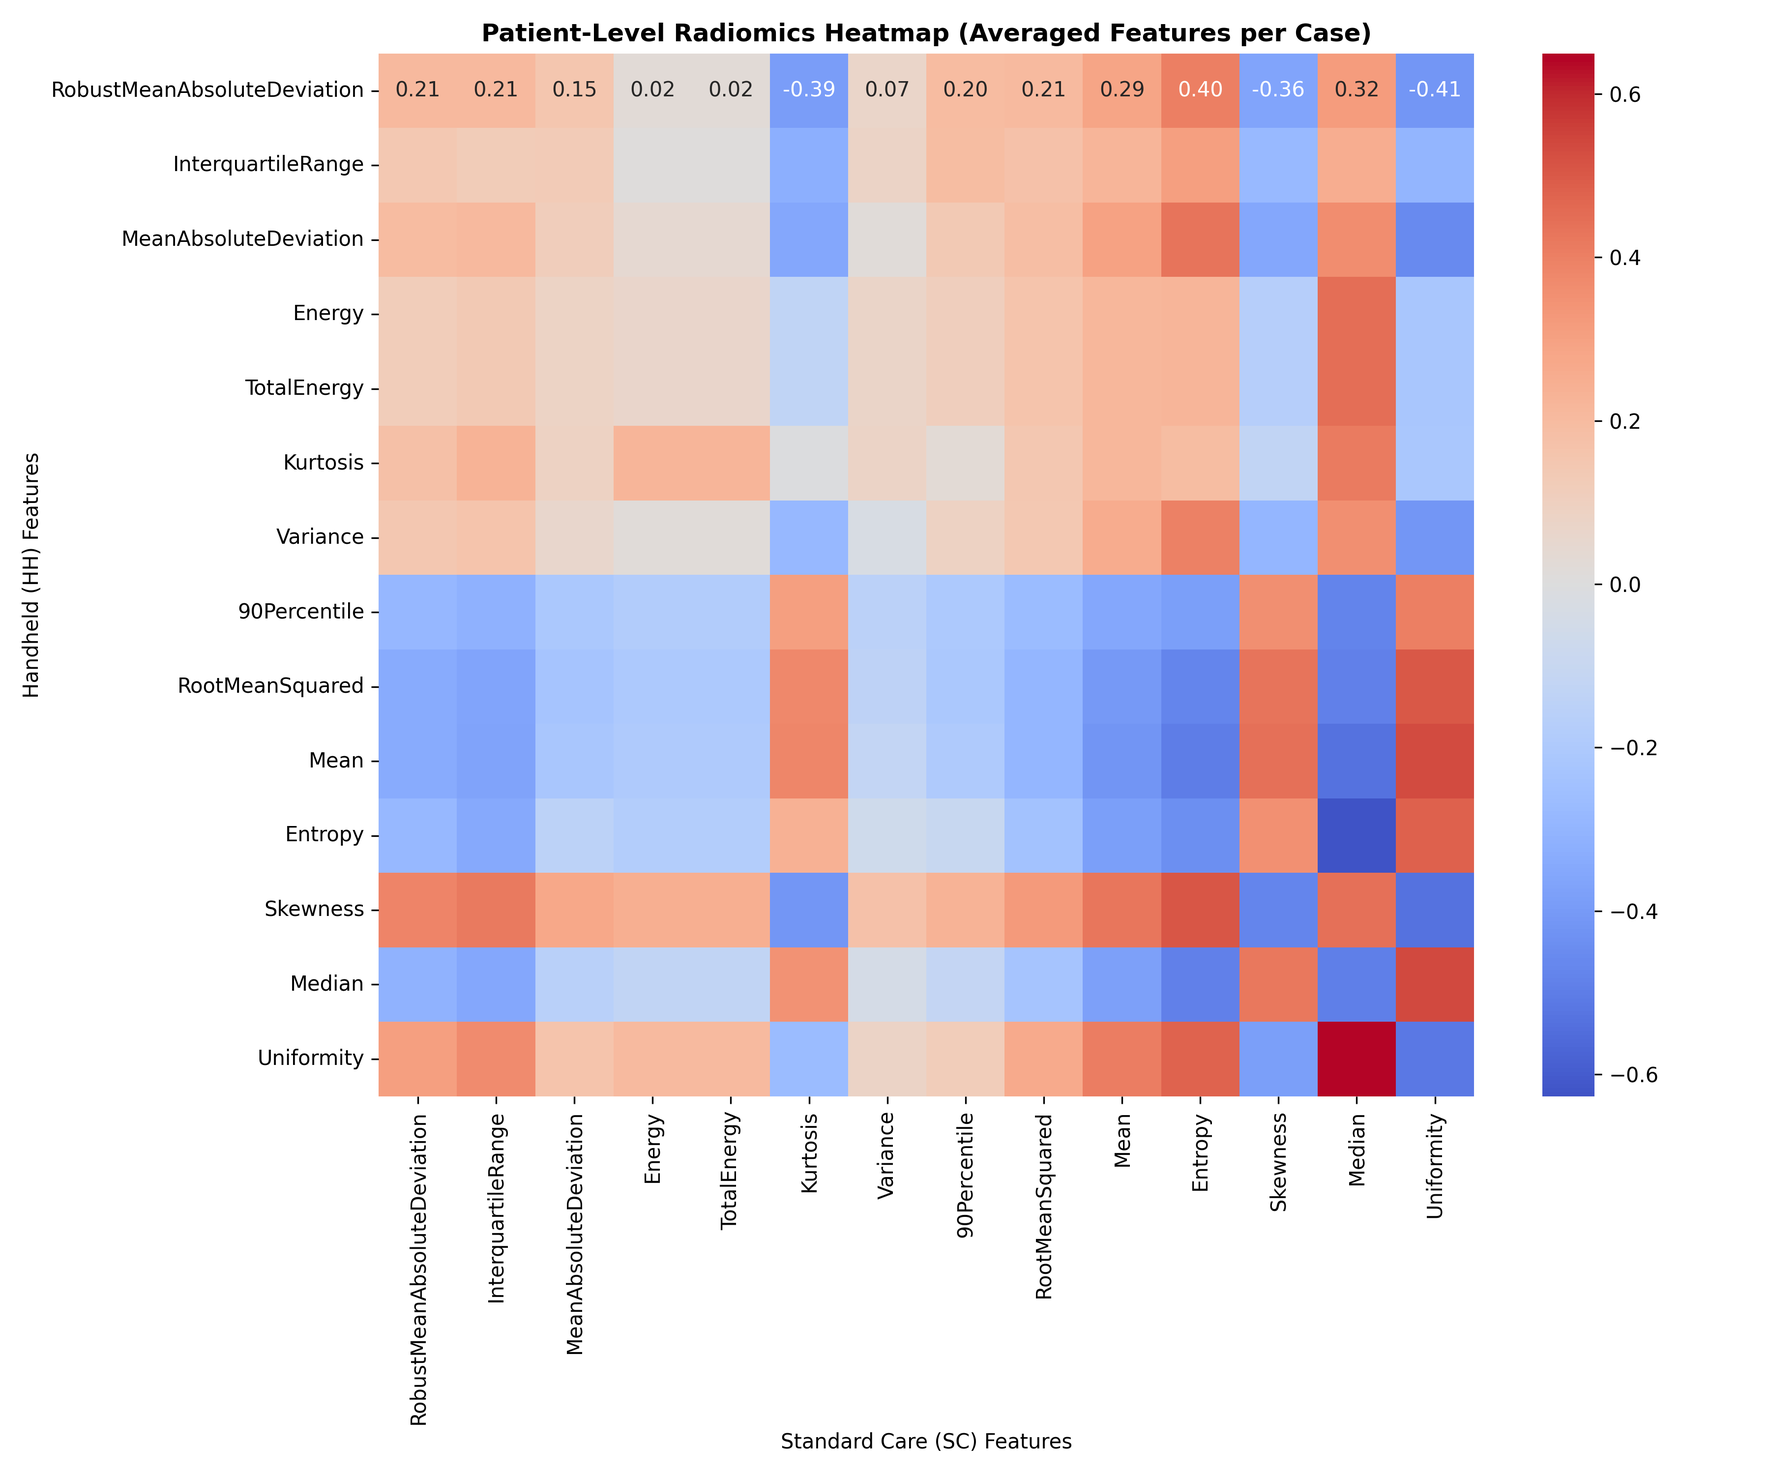
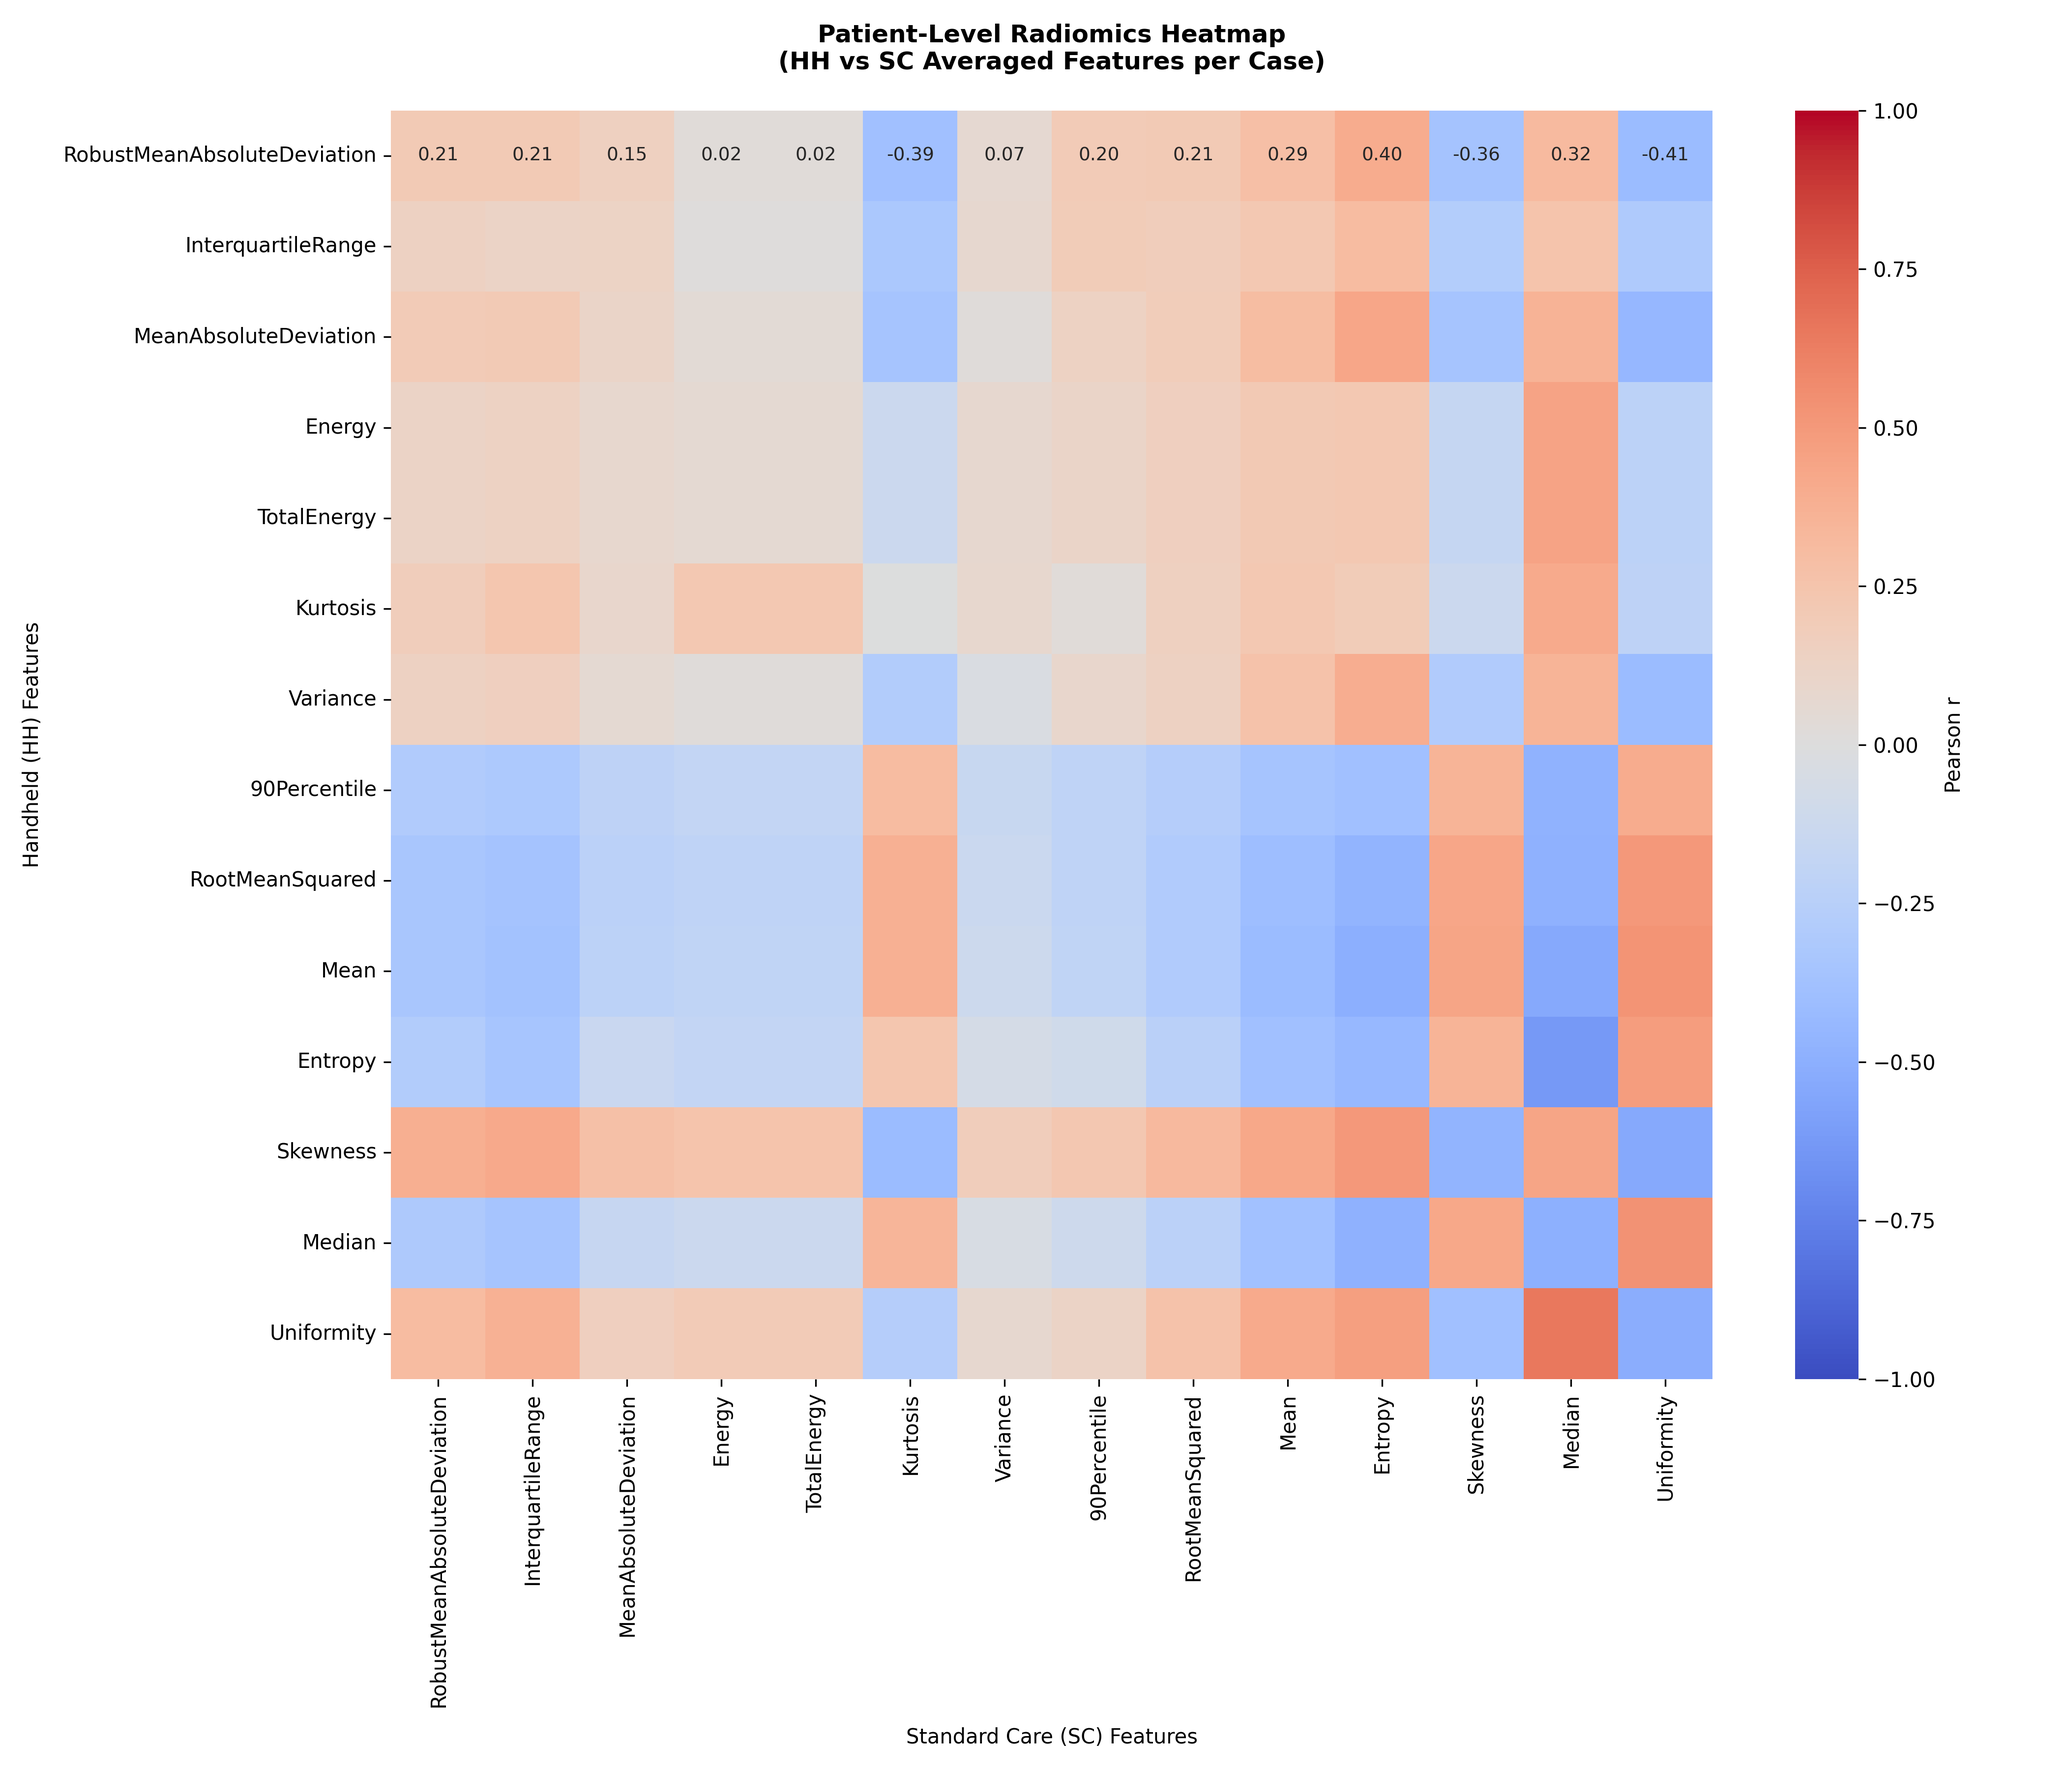
Fix heatmap annotations: use explicit float64 numpy matrix

diff --git a/radiomics_comparison.py b/radiomics_comparison.py
@@ -244,29 +244,46 @@ def main():
     plt.tight_layout()
     plt.savefig(os.path.join(FIG_DIR, "radiomics_correlation_comparison.png"), dpi=300)
     
-    # 2. Patient-Level Heatmap (the "correct" one showing aggregated signal)
-    hh_cols_p = [f"HH_{f}" for f in pat_corr.index]
-    sc_cols_p = [f"SC_{f}" for f in pat_corr.index]
+    # 2. Patient-Level Heatmap — build a clean float64 matrix for seaborn
+    hh_f_cols = [f"HH_{f}" for f in pat_corr.index]
+    sc_f_cols  = [f"SC_{f}"  for f in pat_corr.index]
+    feat_names = list(pat_corr.index)
+    n = len(feat_names)
     
-    cross_corr_p = pd.DataFrame(index=[f for f in pat_corr.index], 
-                                columns=[f for f in pat_corr.index])
+    # Compute pairwise correlations into a fresh numpy matrix
+    mat = np.full((n, n), np.nan)
+    for i, hf in enumerate(hh_f_cols):
+        for j, sf in enumerate(sc_f_cols):
+            sub = patient_df[[hf, sf]].dropna()
+            if len(sub) > 1:
+                mat[i, j] = float(sub.corr().iloc[0, 1])
     
-    for h_f in pat_corr.index:
-        for s_f in pat_corr.index:
-            r = patient_df[[f"HH_{h_f}", f"SC_{s_f}"]].dropna().corr().iloc[0, 1]
-            cross_corr_p.loc[h_f, s_f] = r
-            
-    cross_corr_p = cross_corr_p.astype(float)
+    # Build clean DataFrame — use integer positional index first, then rename
+    cross_corr_p = pd.DataFrame(mat, dtype=float)
+    cross_corr_p.index   = feat_names
+    cross_corr_p.columns = feat_names
     
-    plt.figure(figsize=(12, 10))
-    sns.heatmap(cross_corr_p, annot=True, fmt=".2f", cmap="coolwarm", center=0)
-    plt.title("Patient-Level Radiomics Heatmap (Averaged Features per Case)", fontweight="bold")
-    plt.xlabel("Standard Care (SC) Features")
-    plt.ylabel("Handheld (HH) Features")
+    fig, ax = plt.subplots(figsize=(14, 12))
+    sns.heatmap(
+        cross_corr_p, 
+        annot=True,
+        fmt=".2f",
+        cmap="coolwarm",
+        center=0,
+        vmin=-1, vmax=1,
+        annot_kws={"size": 9},
+        cbar_kws={'label': 'Pearson r'},
+        ax=ax
+    )
+    ax.set_title("Patient-Level Radiomics Heatmap\n(HH vs SC Averaged Features per Case)",
+                 fontweight="bold", pad=20)
+    ax.set_xlabel("Standard Care (SC) Features", labelpad=10)
+    ax.set_ylabel("Handheld (HH) Features", labelpad=10)
     plt.tight_layout()
     plt.savefig(os.path.join(FIG_DIR, "radiomics_heatmap_patient_level.png"), dpi=300)
+    plt.close()
     
-    print("\nSummary of Patient-Level Correlations:")
+    print("\nSummary of Patient-Level Correlations (Diagonal):")
     print(pat_corr.to_string())
     print("\n✓ Analysis complete.")
 
